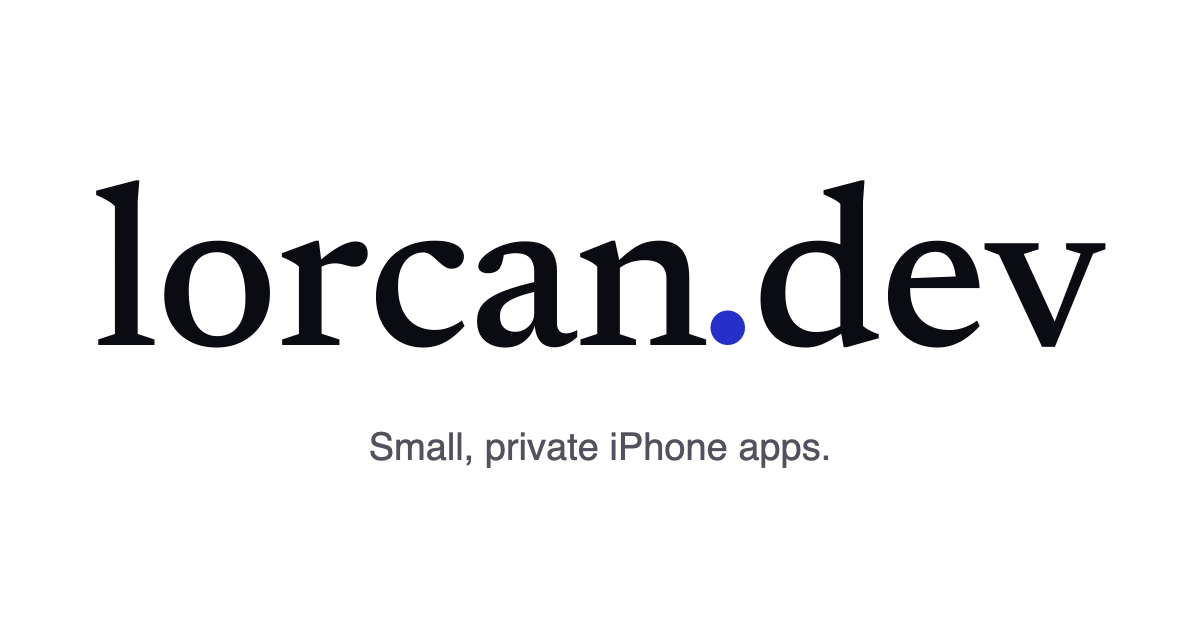
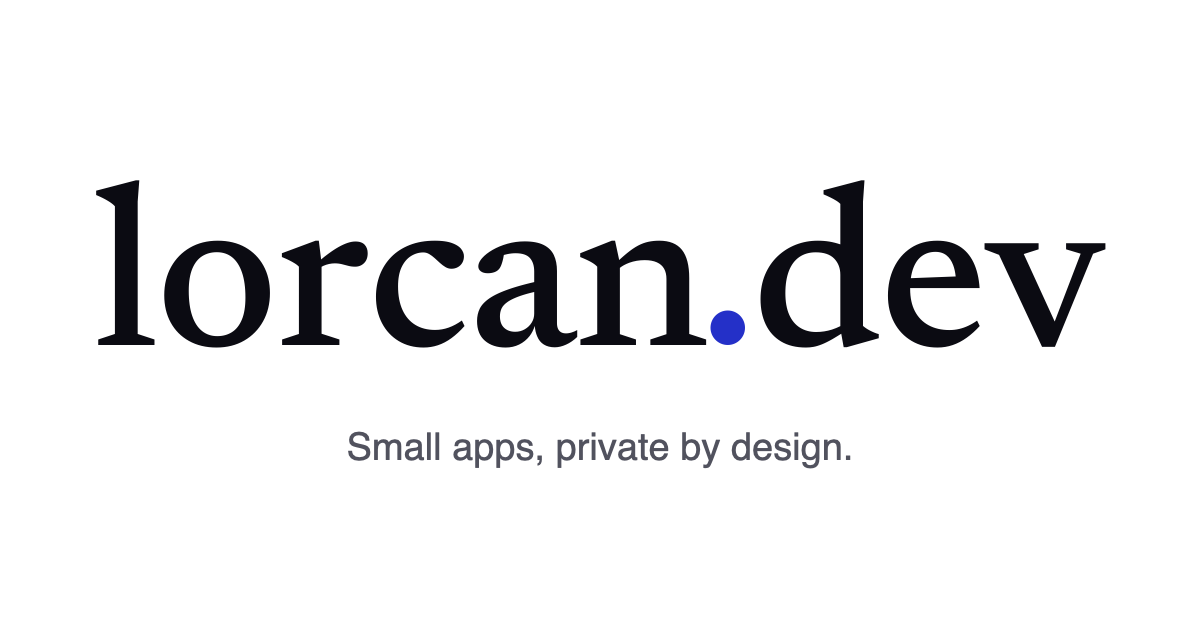
Tagline: Small apps, private by design (headline, descriptions, social image)

Changed region(s): [[0.2775, 0.6635, 0.7092, 0.754]]

diff --git a/index.html b/index.html
@@ -1,10 +1,10 @@
 ---
 layout: default
-description: Small, private iPhone apps by lorcan.dev. Privacy policies and support for each app.
+description: Small apps, private by design. iPhone apps by lorcan.dev, with privacy policies and support for each app.
 ---
 <div class="hero-logo">{% include logo.html %}</div>
-<h1 class="statement">Small iPhone apps that keep your data on your phone.</h1>
-<p class="lede">No accounts, no adverts, no tracking.</p>
+<h1 class="statement">Small apps, private by design.</h1>
+<p class="lede">iPhone apps with no accounts, no adverts and no tracking.</p>
 
 <h2 class="section-title">Apps</h2>
 {% if site.data.apps and site.data.apps.size > 0 %}
